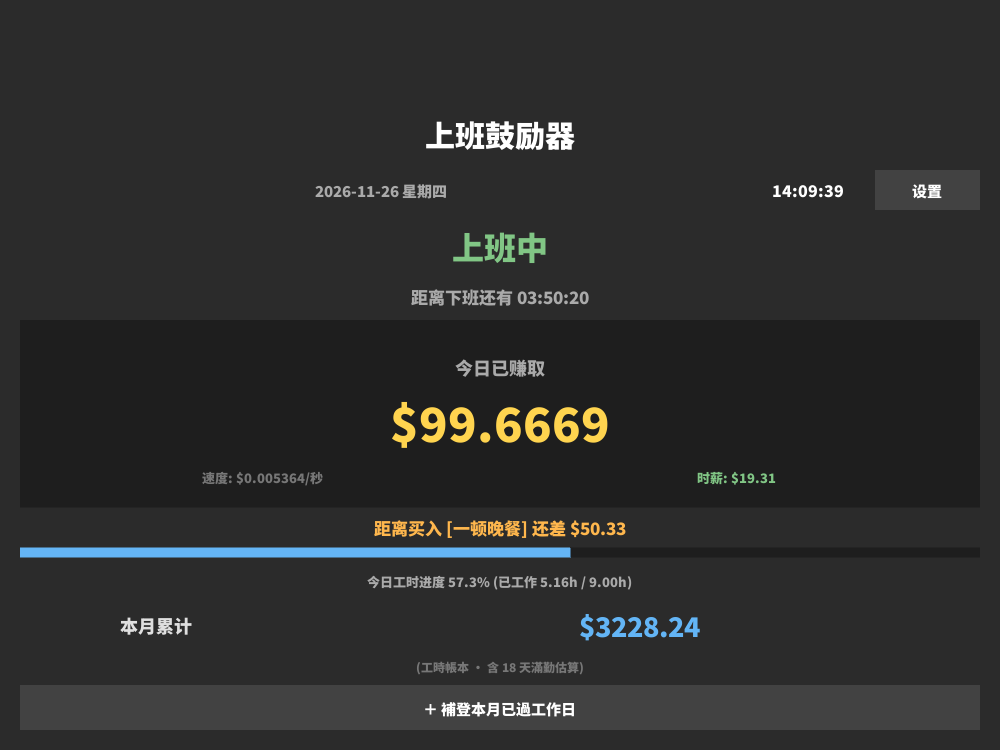
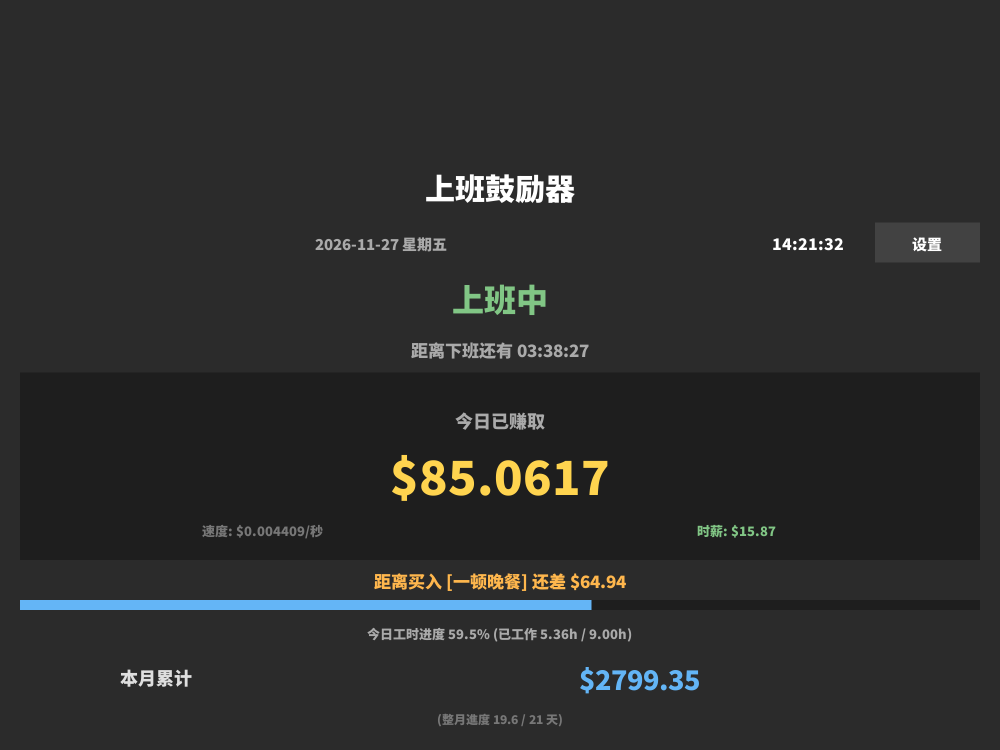
本月累計改為整月進度（不再被提早關閉的記錄拉低）；預設月薪改 3000；移除補登按鈕

diff --git a/main.py b/main.py
@@ -320,25 +320,15 @@ class MainScreen(Screen):
         root.add_widget(month_row)
 
         self.note_label = Label(
-            text="(工時帳本)", font_name=FONT, font_size=sp(10), color=DIM,
+            text="(整月進度)", font_name=FONT, font_size=sp(10), color=DIM,
             size_hint_y=None, height=dp(18),
         )
         root.add_widget(self.note_label)
-
-        root.add_widget(
-            action_button(
-                "＋ 補登本月已過工作日", self._seed, primary=False,
-                height=dp(36), font_size=sp(12),
-            )
-        )
         self.add_widget(root)
 
     # ---------- 事件 ----------
     def _open_settings(self, *_args) -> None:
         App.get_running_app().open_settings()
-
-    def _seed(self, *_args) -> None:
-        App.get_running_app().ask_seed()
 
     # ---------- 更新畫面 ----------
     def set_state(
@@ -597,9 +587,10 @@ class WorkEncouragerApp(App):
         self._tick(0)
         shot = os.environ.get("WE_SHOT")
         if shot:
+            delay = float(os.environ.get("WE_SHOT_DELAY", "1.2"))
             if os.environ.get("WE_SHOT_SCREEN") == "settings":
                 Clock.schedule_once(lambda _dt: self.open_settings(), 0.4)
-            Clock.schedule_once(lambda _dt: self._screenshot(shot), 1.2)
+            Clock.schedule_once(lambda _dt: self._screenshot(shot), delay)
 
     def on_stop(self) -> None:
         self._flush()
@@ -634,30 +625,6 @@ class WorkEncouragerApp(App):
         except OSError as exc:
             show_popup("設定未保存", f"設定已套用，但寫入設定檔失敗：\n{exc}")
         self._refresh(datetime.now())
-
-    # ---------- 補登 ----------
-    def ask_seed(self) -> None:
-        now = datetime.now()
-        pending = [
-            day for day in range(1, now.day) if datetime(now.year, now.month, day).weekday() < 5
-        ]
-        if not pending:
-            show_popup("補登", "本月目前沒有需要補登的已過工作日。")
-            return
-        count = min(len(pending), self._workdays(now))
-        hours = self.settings.schedule.total_seconds / 3600
-
-        def _do_seed() -> None:
-            core.seed_past_workdays(self.ledger, self.settings, now, self._workdays(now))
-            self._flush()
-            self._refresh(datetime.now())
-
-        show_popup(
-            "補登本月工時",
-            f"將把 {now.month} 月的 {count} 個已過工作日補登為滿勤（每日 {hours:.1f} 小時）。\n"
-            "之後仍以實際記錄為準。",
-            confirm=_do_seed,
-        )
 
     # ---------- 計算 ----------
     def _workdays(self, now: datetime) -> int:
@@ -746,16 +713,10 @@ class WorkEncouragerApp(App):
             today_text = "$0.0000"
             target_text, target_color = "休息日不計工資", DIM
 
-        month_seconds, estimated_days = core.month_seconds_estimate(
-            self.ledger, schedule, now, self._workdays(now)
-        )
-        month_text = f"${month_seconds * rates.per_second:.2f}"
-        if estimated_days:
-            note_text = f"(工時帳本 · 含 {estimated_days} 天滿勤估算)"
-        elif self.ledger.first_record_in_month(now.year, now.month) is None:
-            note_text = "(工時帳本 · 尚無記錄)"
-        else:
-            note_text = "(工時帳本 · 本月完整記錄)"
+        workdays = self._workdays(now)
+        progress_days = core.month_progress(now, schedule, workdays)
+        month_text = f"${core.month_earned(self.settings.monthly_salary, now, schedule, workdays):.2f}"
+        note_text = f"(整月進度 {progress_days:.1f} / {workdays} 天)"
 
         self.main_screen.set_state(
             date_text=now.strftime(f"%Y-%m-%d {weekdays[now.weekday()]}"),

diff --git a/core.py b/core.py
@@ -280,7 +280,7 @@ def _as_time(value: object, default: time) -> time:
 class Settings:
     """所有可調整的設定；載入時壞欄位退回預設，不讓程式開不起來。"""
 
-    monthly_salary: float = 3650.0
+    monthly_salary: float = 3000.0
     is_auto_days: bool = True
     manual_days: int = 22
     schedule: WorkSchedule = field(default_factory=WorkSchedule)
@@ -432,34 +432,44 @@ class Ledger:
         return len(self._data)
 
 
+def month_progress(now: datetime, schedule: "WorkSchedule", workdays: int) -> float:
+    """本月已完成的工作天數（含今日按時間比例）。
+
+    已過的平日一律算 1 天（月薪制不看 App 有沒有開著），
+    今天則依實際時間比例計算，週末為 0。
+    """
+    if workdays <= 0 or schedule.total_seconds <= 0:
+        return 0.0
+    passed = passed_workdays(now.year, now.month, now.day)
+    fraction = 0.0
+    if now.weekday() < 5:
+        fraction = min(1.0, schedule.worked_seconds(now) / schedule.total_seconds)
+    return min(float(workdays), passed + fraction)
+
+
+def month_earned(
+    monthly_salary: float, now: datetime, schedule: "WorkSchedule", workdays: int
+) -> float:
+    """本月累計，以「月」為單位。
+
+    = 月薪 × 已完成天數 ÷ 當月工作天數
+
+    這樣月底會剛好等於月薪，且不會因為某天 App 提早關閉而被永久少算。
+    """
+    if workdays <= 0:
+        return 0.0
+    return monthly_salary * month_progress(now, schedule, workdays) / workdays
+
+
 def month_seconds_estimate(
     ledger: "Ledger", schedule: "WorkSchedule", now: datetime, workdays: int
 ) -> tuple:
-    """以「月」為單位估算本月累計秒數。
+    """以「月」為單位估算本月累計秒數（保留給舊版呼叫端）。
 
-    規則：
-    * 已有記錄的日子，用實際秒數；
-    * 今天以前、沒有記錄的平日，按「滿勤」補上；
-    * 補上的天數不超過本月設定的工作天數。
-
-    這樣一開程式看到的就是整月累計（約等於月薪的進度），
-    而不是只從今天開始算。回傳 ``(總秒數, 被估算的天數)``。
+    已在 v2.1 改由 :func:`month_earned` 計算，此函式僅為相容而保留。
     """
-    year, month = now.year, now.month
-    recorded = ledger.seconds_in_month(year, month)
-    recorded_days = ledger.days_in_month(year, month)
-
-    missing = 0
-    for day in range(1, now.day):
-        if calendar.weekday(year, month, day) >= 5:
-            continue
-        if not ledger.has(f"{year:04d}-{month:02d}-{day:02d}"):
-            missing += 1
-
-    budget = max(0, workdays - recorded_days)
-    estimated_days = min(missing, budget)
-    total = recorded + estimated_days * schedule.total_seconds
-    return min(total, workdays * schedule.total_seconds), estimated_days
+    progress = month_progress(now, schedule, workdays)
+    return int(progress * schedule.total_seconds), 0
 
 
 def seed_past_workdays(ledger: Ledger, settings: Settings, now: datetime, workdays: int) -> int:

diff --git a/selftest_core.py b/selftest_core.py
@@ -69,13 +69,21 @@ def main() -> int:
         ledger.record("2026-11-26", 1800)
         check("帳本只增不減", ledger.seconds_in_month(2026, 11), 3600)
 
-        # 本月累計以「月」為單位：沒記錄的平日按滿勤補
-        empty = core.Ledger(core.Store(tmp / "empty"))
-        total, estimated = core.month_seconds_estimate(
-            empty, schedule, datetime(2026, 11, 26, 10, 0), 21
+        # 本月累計：以整月進度計算（已過平日算滿、今天按時間比例）
+        moment = datetime(2026, 11, 27, 14, 16)  # 週五，已過 19 個平日
+        progress = core.month_progress(moment, schedule, 21)
+        check("整月進度天數", round(progress, 4), round(19 + 18960 / 32400, 4))
+        check(
+            "本月累計",
+            round(core.month_earned(3000.0, moment, schedule, 21), 2),
+            round(3000.0 * progress / 21, 2),
         )
-        check("整月估算天數", estimated, 18)
-        check("整月估算秒數", total, 18 * 32400)
+        check(
+            "月底等於月薪",
+            round(core.month_earned(3000.0, datetime(2026, 11, 30, 19, 0), schedule, 21), 2),
+            3000.0,
+        )
+        check("預設月薪", core.Settings().monthly_salary, 3000.0)
     finally:
         shutil.rmtree(tmp, ignore_errors=True)
 
